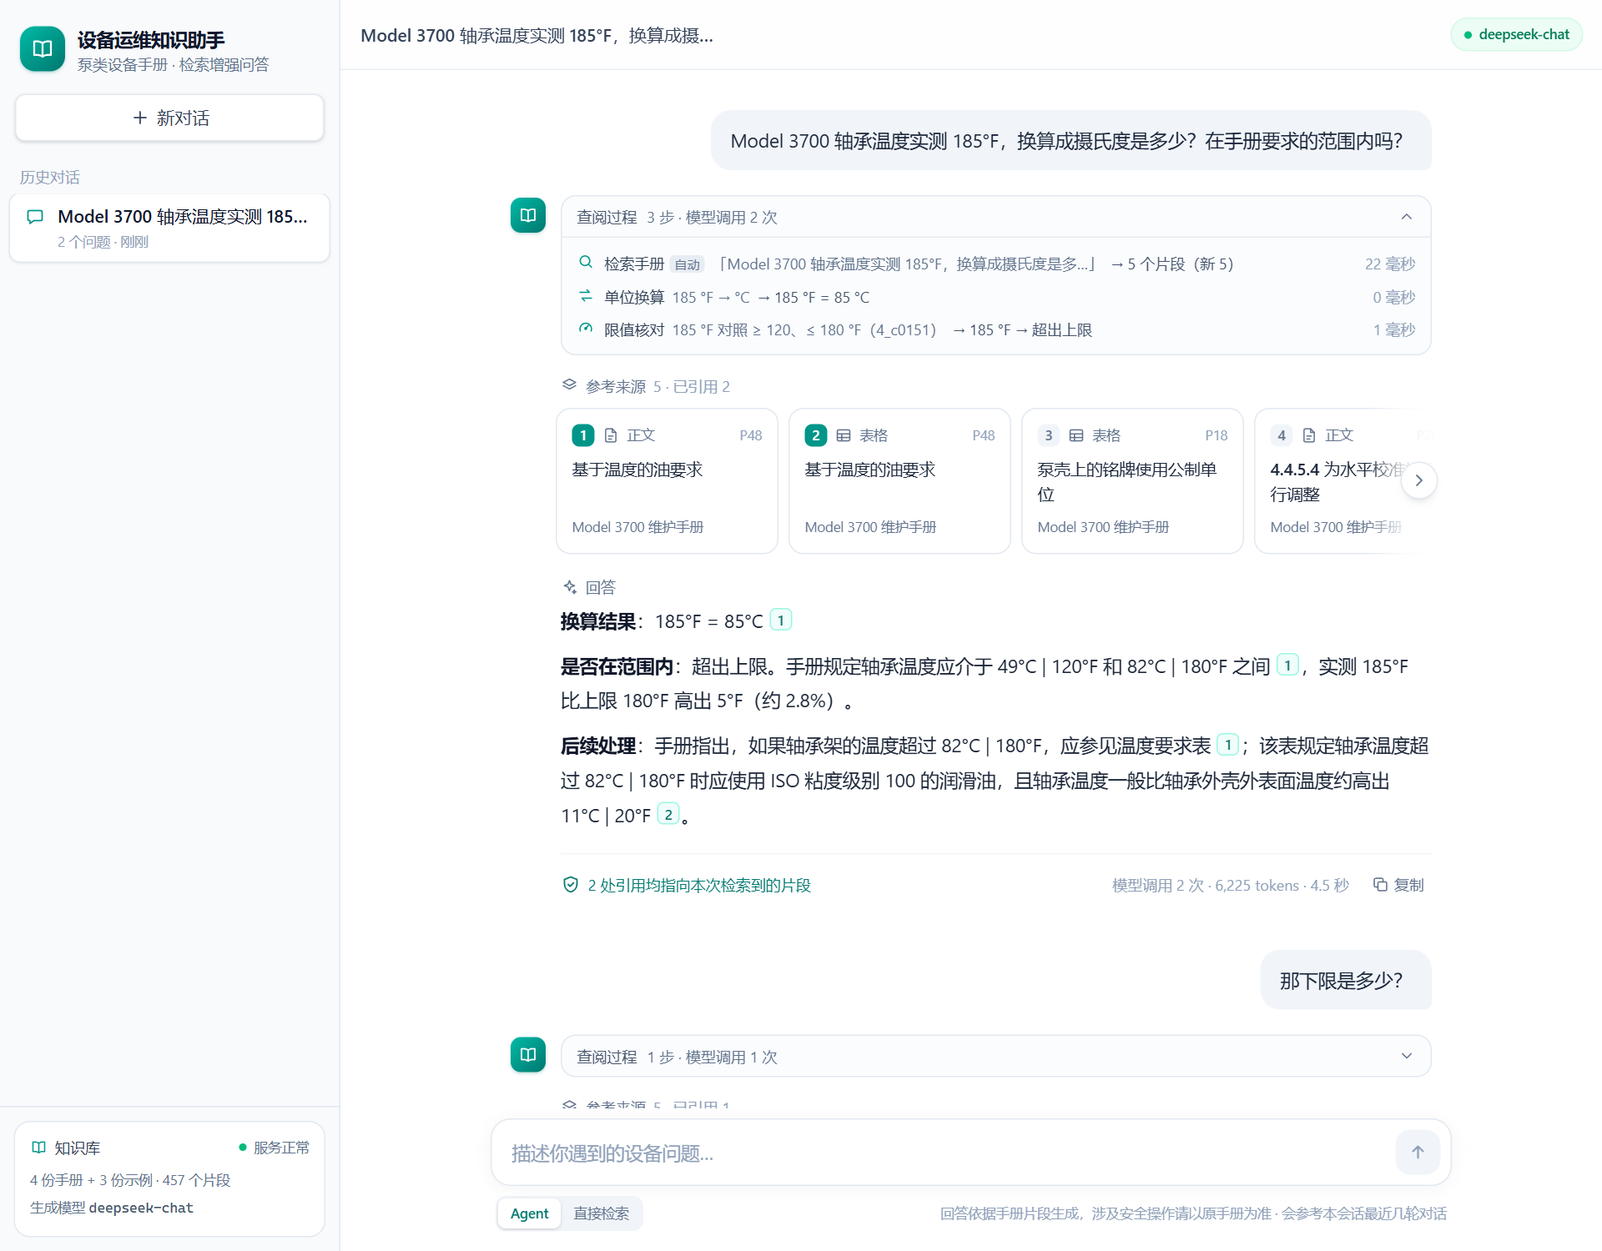
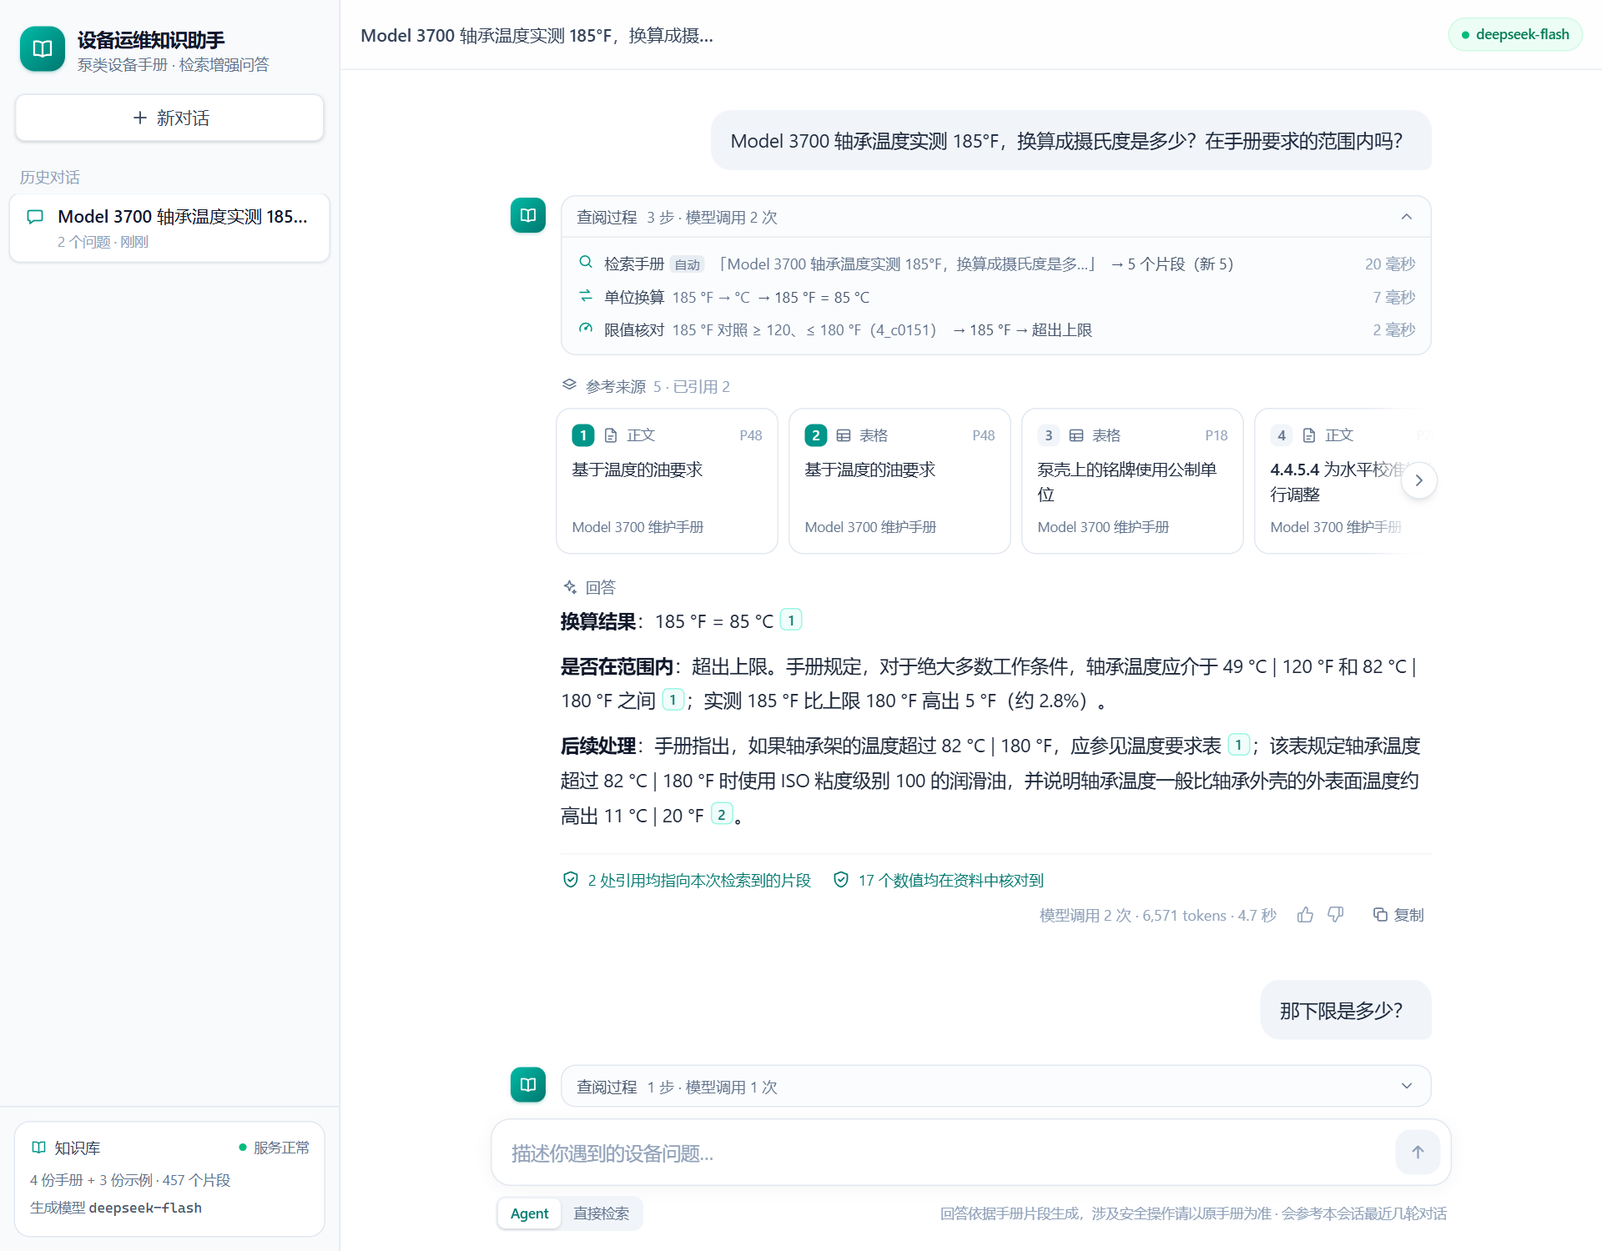
细节：阶段 3、4 之后过时的文档说法改对（Agent 图结构与事件字段、badcase 的「下一步」、前端说明、MCP 连不上的原因），README 首图重拍（deepseek-flash、数值核对、👍/👎），删掉没被引用的截图和两处没用的导入，.env.example 补 Docker 可选项

diff --git a/src/s3_eval/rerank_retrieval.py b/src/s3_eval/rerank_retrieval.py
@@ -13,7 +13,6 @@ import os
 import pickle
 import sys
 import time
-from collections import defaultdict
 from pathlib import Path
 
 import numpy as np

diff --git a/src/s3_eval/hybrid_retrieval.py b/src/s3_eval/hybrid_retrieval.py
@@ -15,7 +15,6 @@ import os
 import pickle
 import re
 import sys
-from collections import defaultdict
 from pathlib import Path
 
 import numpy as np

diff --git a/docs/agent.md b/docs/agent.md
@@ -36,12 +36,18 @@
    └───────┬───────┘                          └───────────────┘
            │ 直接作答，或到达轮数上限后以 tool_choice=none 强制作答
            ▼
-   ┌───────────────┐
-   │   finalize    │   引用校验（引用的 chunk_id 是否都在本次工具返回过的片段里）、拒答判定
-   └───────────────┘
+   ┌───────────────┐   引用校验（引用的 chunk_id 是否都在本次工具返回过的片段里）、拒答判定（带引用的拒答去掉引用），
+   │     check     │   数值核对（回答里的每个数在资料里有没有、单位对不对）
+   └───────┬───────┘
+           │ 数值对不上且还没改写过            ┌───────────────┐
+           └─────────────────────────────────▶ │    repair     │  把问题清单交给模型改写一次（不调工具），
+             ◀──────────────────────────────── │               │  回到 check；改得更差就退回初稿
+                                               └───────────────┘
 ```
 
-代码：`src/s4_agent/agent.py`（图与节点）、`tools.py`（工具）、`units.py`（换算与限值比较）、`tables.py`（表格按行入库）。
+`check`、`repair` 两个节点是阶段 3（护栏）加的，之前这一步叫 `finalize`，只做引用校验和拒答判定。
+代码：`src/s4_agent/agent.py`（图与节点）、`tools.py`（工具）、`units.py`（换算与限值比较）、`tables.py`（表格按行入库）、
+`numcheck.py`（数值与单位的出处核对）。
 命令行试问：`python src/s4_agent/agent.py "问题"`。
 
 ## 3. 五个工具
@@ -66,6 +72,8 @@
 | 单个工具超时 | 10 秒 | 超时作为错误回给模型 |
 | 对话历史 | 最近 3 轮，每条回答去掉引用标记后最多 600 字 | 去引用是为了不让模型把上一轮的片段当成本轮依据来引用 |
 | 生成上限 | 每次模型调用 1024 token | 与 rag 模式相同 |
+| 改写次数上限 | 1（`max_repairs`） | 阶段 3 加的：回答里的数值对不上时让模型改写，0 为只核对、不改写 |
+| 注入防护 | 开（`injection_guard`） | 阶段 3 加的：手册原文包进 `<片段原文>` 标签，系统提示词说明标签里是资料、不是指令 |
 
 几个取舍：
 
@@ -87,11 +95,11 @@
 
 | 事件 | 内容 |
 |---|---|
-| `step` | `llm_start`（第几次模型调用、是否强制作答）/ `tool_start` / `tool_end`（工具名、参数、成败、摘要、耗时；换算与核对带输出原文）/ `thought` / `forced_final` |
+| `step` | `llm_start`（第几次模型调用、是否强制作答）/ `tool_start` / `tool_end`（工具名、参数、成败、摘要、耗时；换算与核对带输出原文）/ `thought` / `forced_final` / `repair`（数值核对不上、接下来改写一次，带问题清单） |
 | `retrieval` | 截至目前给模型看过的全部来源片段（累计列表，前端直接替换） |
-| `token` | `{text, round}` |
-| `verification` | 引用校验结果，另有 `refused`（含拒答话术且没有引用任何片段） |
-| `done` | token、缓存命中 token、耗时、`finish_reason`、模型调用次数、工具调用次数、是否强制作答、模型名、估算费用、最终答案 |
+| `token` | `{text, round}`；改写后的回答以新的一轮流出 |
+| `verification` | 引用校验结果，另有 `refused`（含拒答话术且没有引用任何片段）、`numbers_checked`、`number_issues`（最终答案里仍对不上的数）、`repair`（改写前后的问题数、采用了改写稿还是初稿） |
+| `done` | token、缓存命中 token、耗时、`finish_reason`、模型调用次数、工具调用次数、是否强制作答、模型名、估算费用、最终答案（以它为准）；请求日志开启时还有 `request_id`，前端的 👍/👎 凭它调 `POST /api/feedback` |
 
 请求体：`{question, history?: [{role, content}], mode?: "agent" | "rag"}`。前端在输入框下方可切换模式。
 
@@ -210,13 +218,14 @@
 
 - **带引用的拒答**（第 5.5 节第 4 条）：阶段 3 起，以「知识库无相关内容」开头的回答去掉引用、按拒答处理（系统改动，评测口径没改；见 README「阶段 3：护栏」）。
 - **引用粒度**：表格、列表按块标注引用，逐句口径下记为无引用。
-- **评测之后已修复**（process_log 第 20、21 条；只做了 13 题冒烟，未重跑全套评测）：
+- **评测之后已修复**（process_log 第 20、21 条；当时只做了 13 题冒烟，阶段 3 开始时在这些修复之上重跑了全套评测 agent_v1_flash，完全答对的题数与 agent_v1 相同；阶段 4 起这几处都有 pytest 测试）：
   - 工具超时的竞态：改为在副本上执行，按时完成才合并进证据池。
   - 「前面已给出全文」不准确：证据池记下每个片段给模型看了多少，只给过部分行的表格再出现时照常给出正文。
   - 冷启动：服务启动时预加载，重启后首个请求的预检索从约 0.6 秒降到 17 ms。
   - 模型名：改用 `deepseek-flash` 并显式关闭思考模式。
 - 同一组工具已经以 MCP Server 提供（`src/s5_app/mcp_server.py`，见 README「MCP Server」）。
 - 阶段 3 加了护栏：换算、核对工具的参数要对得上原文单位，回答里的数值逐个核对、对不上改写一次，注入防护（见 README「阶段 3：护栏」与 process_log 第 23–27 条）。
+- 阶段 4 加了 pytest、CI、Docker 部署和请求日志（👍/👎），见 README「工程化」一节与 process_log 第 28–34 条。
 
 ## 复现
 

diff --git a/README.md b/README.md
@@ -17,10 +17,10 @@
 ## 演示
 
 <p align="center">
-  <img src="docs/assets/demo-agent.png" alt="Agent 模式：查阅过程时间线（预检索、单位换算、限值核对）、参考来源卡片、逐句引用角标与追问" width="760">
+  <img src="docs/assets/demo-agent.png" alt="Agent 模式：查阅过程时间线（预检索、单位换算、限值核对）、参考来源卡片、逐句引用角标、数值核对结果、👍/👎 与追问" width="760">
 </p>
 
-> Agent 模式的一次提问：上方「查阅过程」实时显示每一步——系统先用原问题检索一次（标「自动」），模型再按需调用工具（这里是把 185 °F 换算成 °C、把实测值和手册限值交给代码核对，结论「超出上限」由代码给出）；随后流式输出回答，每句末尾的 chunk_id 渲染成可点击的角标；最后给出引用校验结果、模型调用次数、token 与耗时。下一轮的追问「那下限是多少？」带着上文一起发给后端。回答被生成长度上限截断时会显式提示。
+> Agent 模式的一次提问：上方「查阅过程」实时显示每一步——系统先用原问题检索一次（标「自动」），模型再按需调用工具（这里是把 185 °F 换算成 °C、把实测值和手册限值交给代码核对，结论「超出上限」由代码给出）；随后流式输出回答，每句末尾的 chunk_id 渲染成可点击的角标；最后给出引用校验和数值核对的结果（这里回答里的 17 个数都在资料里核对到）、模型调用次数、token 与耗时，右下角的 👍/👎 写进请求日志。下一轮的追问「那下限是多少？」带着上文一起发给后端。回答被生成长度上限截断时会显式提示。
 
 | 点击引用角标查看原文（表格按原结构还原） | 直接检索（rag）模式：库外问题被拒答闸拦截，不调用大模型 |
 |---|---|
@@ -69,7 +69,7 @@ flowchart LR
 - **和 Agent 的差别**：重复出现的片段照样给出正文，不省略成「前面已给出全文」，因为客户端自己管理上下文，之前给过的全文可能已经被压缩掉。
 - **启动不卡握手**：检索依赖（torch、embedding 模型、Chroma、BM25）在后台线程加载；握手和列工具不用等（工具定义只依赖 pydantic），第一次调用工具时才等加载完成。握手时把手册清单和用法说明（[`configs/prompts/mcp.txt`](configs/prompts/mcp.txt)）发给客户端；工具都标注为只读（`readOnlyHint`）、不访问外部系统（`openWorldHint: false`）。
 
-**在 Claude Code 里使用**：仓库根目录的 [`.mcp.json`](.mcp.json) 已登记服务器 `equip-manuals`，启动命令是 `${MACHINE_AI_PYTHON:-python} src/s5_app/mcp_server.py`。在装好依赖的 Python 环境里启动 Claude Code，或者把环境变量 `MACHINE_AI_PYTHON` 设为该环境的 python 路径。首次使用时确认启用这个项目级服务器，然后直接提问，例如「用 equip-manuals 查一下 Model 3700 轴承温度实测 185°F 是否超限」。其他支持 stdio 的 MCP 客户端，用同样的启动命令登记即可（未逐一实测）。
+**在 Claude Code 里使用**：仓库根目录的 [`.mcp.json`](.mcp.json) 已登记服务器 `equip-manuals`，启动命令是 `${MACHINE_AI_PYTHON:-python} src/s5_app/mcp_server.py`。在装好依赖的 Python 环境里启动 Claude Code，或者把环境变量 `MACHINE_AI_PYTHON` 设为该环境的 python 路径（Windows 上可用 `setx MACHINE_AI_PYTHON "<环境的 python.exe 路径>"`，之后重开终端或 Claude 桌面版才生效）。没设、PATH 上的 python 又没装依赖时，服务器一启动就退出，客户端显示连接断开（如 `CONNECTION_CLOSED`）。首次使用时确认启用这个项目级服务器，然后直接提问，例如「用 equip-manuals 查一下 Model 3700 轴承温度实测 185°F 是否超限」。其他支持 stdio 的 MCP 客户端，用同样的启动命令登记即可（未逐一实测）。
 
 **自检**（不需要 API Key）：
 
@@ -180,7 +180,7 @@ dev 上的结果方向一致（主集 49/62 → 62/62，任务集 9/15 → 15/15
 
 - **提升对应阶段 1 找出的三类失分**：误拒归零、追问带上历史后 10/10 答对、换算与核对交给确定性工具后数值事实全对。
 - **拒答召回按规则下降**（dev 15/15 → 13/15）：被记为作答的应拒答题（两个集合 dev+test 共 4 题），回答都以「知识库无相关内容」开头、说明查到的内容为何不适用，只是违反提示词带上了片段编号；规则没有在看到结果后修改。
-- **无引用句明显增多**：主要是 Markdown 表格行（表格只在开头或结尾标一次出处，test 85 句里 51 句）；引用粒度要在下一步的校验器里定。
+- **无引用句明显增多**：主要是 Markdown 表格行（表格只在开头或结尾标一次出处，test 85 句里 51 句）；引用粒度后来没有改，记在「已知局限」里。
 - **代价**：输入 token 约 3.5–5.6 倍、成本约 4.5–6.4 倍；多步任务平均 1.9 次模型调用，慢约 1.8 秒。
 
 ```bash
@@ -440,7 +440,7 @@ docker compose up -d --build    # 前端 http://localhost:8080（端口可用 WE
 语料为 4 份公开可获取的泵类设备厂商手册（doc 1–4），另有 3 份自造样例手册（见清单后说明）：
 
 1. D型/MD型/DF型卧式多级离心泵安装使用说明书
-2. Wilo—WR 系列多级离心泵
+2. Wilo-WR 系列多级离心泵
 3. Leader 离心泵（Ecotronic / Ecojet / Ecoplus 系列）
 4. Model 3700, API Type OH2 / ISO 13709 安装、运行与维护手册
 

diff --git a/docs/badcase.md b/docs/badcase.md
@@ -176,7 +176,7 @@
 | 定位过程 | 看工具步骤：第一次 `convert_unit(85, "daN·m", "N·m")` 报「不认识的单位」；模型第二次改成 `convert_unit(85, "kgf·m", "N·m")`，工具正确算出 833.6，模型在答案里写成了「daN·m = kgf·m」 |
 | 根因 | 换算表缺 daN·m；工具报错后，模型找了一个看起来接近的单位替代，而且在答案里把两者写成相等 |
 | 处置 | 补齐 daN·m、kN·m、N·cm、kgf·cm 等扭矩单位。这道题不在评测集里，评测中换算与核对工具零报错 |
-| 残留风险 | 确定性工具只保证「把被要求的算对」，交给它的参数（数值、单位、限值出处）仍由模型给出。check_value 的限值会核对原文，convert_unit 的输入单位目前不核对；下一步的校验器要查「换算前的数值和单位是否与所引原文一致」 |
+| 残留风险 | 确定性工具只保证「把被要求的算对」，交给它的参数（数值、单位、限值出处）仍由模型给出。阶段 3 起，convert_unit、check_value 的数值要在问题或资料里找得到、单位要与原文一致，这道题第二次的 `convert_unit(85, "kgf·m", "N·m")` 会被拒，并告诉模型原文单位是 daN（tests/test_tools.py 有对应测试）。数是不是同一个量（比如用错了表里的另一行）仍不核对 |
 
 ### 16. 带引用的拒答：被规则记为作答
 
@@ -186,7 +186,7 @@
 | 定位过程 | 逐题看回答：都以「知识库无相关内容」开头，接着说明查过什么、为什么不适用，例如「检索到的泄漏量数值分别出自 Wilo-WR 多级离心泵手册（机械密封 0.2～5 ml/h [2_c0045]……），不能作为 D 型泵的依据」 |
 | 根因 | 提示词要求拒答时不要标注 chunk_id，模型为了说明「查到的是别的东西」还是带上了编号；阶段 1 定的拒答规则是「拒答话术且不带引用」，评审模型也把这类回答判为「给出了实质内容」 |
 | 处置 | 规则没有在看到结果后修改，如实按规则报数，并在报告里写明这 4 题的实际内容。前端用后端同一规则判定拒答，这 4 类回答会作为普通回答展示 |
-| 残留风险 | 指标低估了拒答能力；产品上应把以拒答话术开头的回答按拒答展示，并在校验器（下一步）里处理 |
+| 残留风险 | 指标低估了拒答能力。阶段 3 起系统已处理：以「知识库无相关内容」开头的回答去掉引用、按拒答展示，主集与任务集 dev 的拒答召回回到 15/15、2/2（评测口径没改）。模型不拒答、拿别的设备的内容来答的情况（如用 Model 3700 的换油周期回答减速机）仍管不到 |
 
 ### 17. 表格和列表的引用粒度变粗
 
@@ -196,7 +196,7 @@
 | 定位过程 | 把无引用的「句子」分类：dev 91 句里 56 句、test 85 句里 51 句是 Markdown 表格的行，表格只在引言或结尾标一次出处；其余多是列表项，引用标在小标题或最后一项上 |
 | 根因 | 检索结果里表格按行展开给模型看后，模型更倾向于用表格作答；逐句标注的口径把每个表格行、列表项都当成一句 |
 | 处置 | 未修复，如实记录。忠实度评审（判断句子有没有依据）不受影响：主集 dev 0.931、test 0.946 |
-| 残留风险 | 用户点不到某一行的出处；要按行标注还是按块标注，在下一步的校验器里定 |
+| 残留风险 | 用户点不到某一行的出处。按行标注还是按块标注，后来缩减路线时没有做，记为已知局限（README「已知局限」的「引用粒度变粗」） |
 
 ### 18. 该读相邻片段时没读
 

diff --git a/frontend/README.md b/frontend/README.md
@@ -10,6 +10,9 @@
 - **引用角标**：回答里的 chunk_id 引用（`[4_c0319]`、`（chunk_id: 4_c0026）`、`【2_c0044】` 等写法）渲染成来源序号角标，悬停高亮对应卡片，点击打开原文；表格按原始行列结构还原
 - **状态区分**：拒答闸拦截（rag 模式）、资料不足（Agent 模式会附上查过什么）、请求失败分别展示，不混进普通答案；回答被生成长度上限截断（`finish_reason=length`）时额外提示
 - **引用校验**：展示引用是否都指向本次检索结果、低重合句提示，以及模型调用次数、token 数与耗时
+- **数值核对**（Agent 模式）：回答底部显示「N 个数值均在资料中核对到」或哪几个数核对不上（悬停看原因）；数值对不上触发了改写时，查阅过程里多一行说明，回答区换成改写后的版本，以后端最终采用的答案为准
+- **👍/👎**：每个回答（包括拒答）下方可以评价，点 👎 会弹出一个可选的说明框；评价写进后端的请求日志，后端没开日志时不显示
+- **自动重连**：打开页面时连不上后端（比如后端还在加载模型），按 1、2、4 秒递增重试，最长间隔 10 秒，连上后自动恢复
 - **对话历史**：保存在浏览器 localStorage，刷新不丢；Agent 模式下把本会话最近的问答一起发给后端，追问可以省略设备型号（后端只取最近 3 轮）
 
 ## 依赖安装
@@ -21,9 +24,10 @@ npm install
 ## 启动
 
 ```bash
-npm run dev     # http://localhost:5173，/api 自动代理到 http://localhost:8000
-npm run build   # 产物输出到 dist/
-npm run preview # 预览构建产物
+npm run dev       # http://localhost:5173，/api 自动代理到 http://localhost:8000
+npm run typecheck # TypeScript 类型检查（CI 和前端镜像构建时都会跑）
+npm run build     # 产物输出到 dist/
+npm run preview   # 预览构建产物
 ```
 
 后端先起：`python -m uvicorn src.s5_app.api:app --host 127.0.0.1 --port 8000`（在项目根目录执行）。
@@ -56,7 +60,8 @@ src/
 | 接口 | 用途 |
 |---|---|
 | `GET /api/health` | 服务状态、片段总数、生成模型、默认模式、已收录文档清单 |
-| `POST /api/ask` | SSE 流式问答，请求体 `{question, history, mode}`。rag 模式事件顺序 `retrieval → (rejected \| token* + verification + done) / error`；Agent 模式 `step`（模型调用开始、工具开始/结束、中间说明）与 `retrieval`（累计来源）穿插，`token` 带 `round`，之后 `verification`、`done` |
+| `POST /api/ask` | SSE 流式问答，请求体 `{question, history, mode}`。rag 模式事件顺序 `retrieval → (rejected \| token* + verification + done) / error`；Agent 模式 `step`（模型调用开始、工具开始/结束、中间说明、改写）与 `retrieval`（累计来源）穿插，`token` 带 `round`，之后 `verification`、`done`。结束事件带 `request_id`（后端开了请求日志时） |
+| `POST /api/feedback` | 👍/👎：`{request_id, rating: 1 \| -1 \| null, comment?}`，`null` 为撤销 |
 | `GET /api/chunks/{chunk_id}` | 单个片段原文（正文或表格 HTML），打开来源详情时按需拉取 |
 
 表格 HTML 来自 MinerU 解析结果，前端用 `DOMParser` 只提取单元格文本与合并信息后重建表格，不直接注入原始 HTML。

diff --git a/docs/answer_eval.md b/docs/answer_eval.md
@@ -183,6 +183,7 @@ python src/answer_eval/run.py --run agent_v2       # 系统改动后另存一份
 python src/answer_eval/run.py --mode rag           # 评 rag 模式（阶段 1 的固定流水线）
 python src/answer_eval/run.py --set tasks          # Agent 多步任务集
 python src/answer_eval/run.py --reuse              # 只用缓存重算，零 LLM 调用
+python src/answer_eval/run.py --run agent_v2 --reuse --check   # 只复算、与已有 metrics.json 逐项比对，不写文件（pytest 用它核对已提交的 8 份评测）
 python src/answer_eval/run.py --run baseline --set tasks --frozen   # 旧系统的缓存答案 + 新评审
 python src/answer_eval/compare.py baseline agent_v1 [--set tasks]   # 两次评测并排对比
 python src/answer_eval/probe.py                    # 评审灵敏度测试
